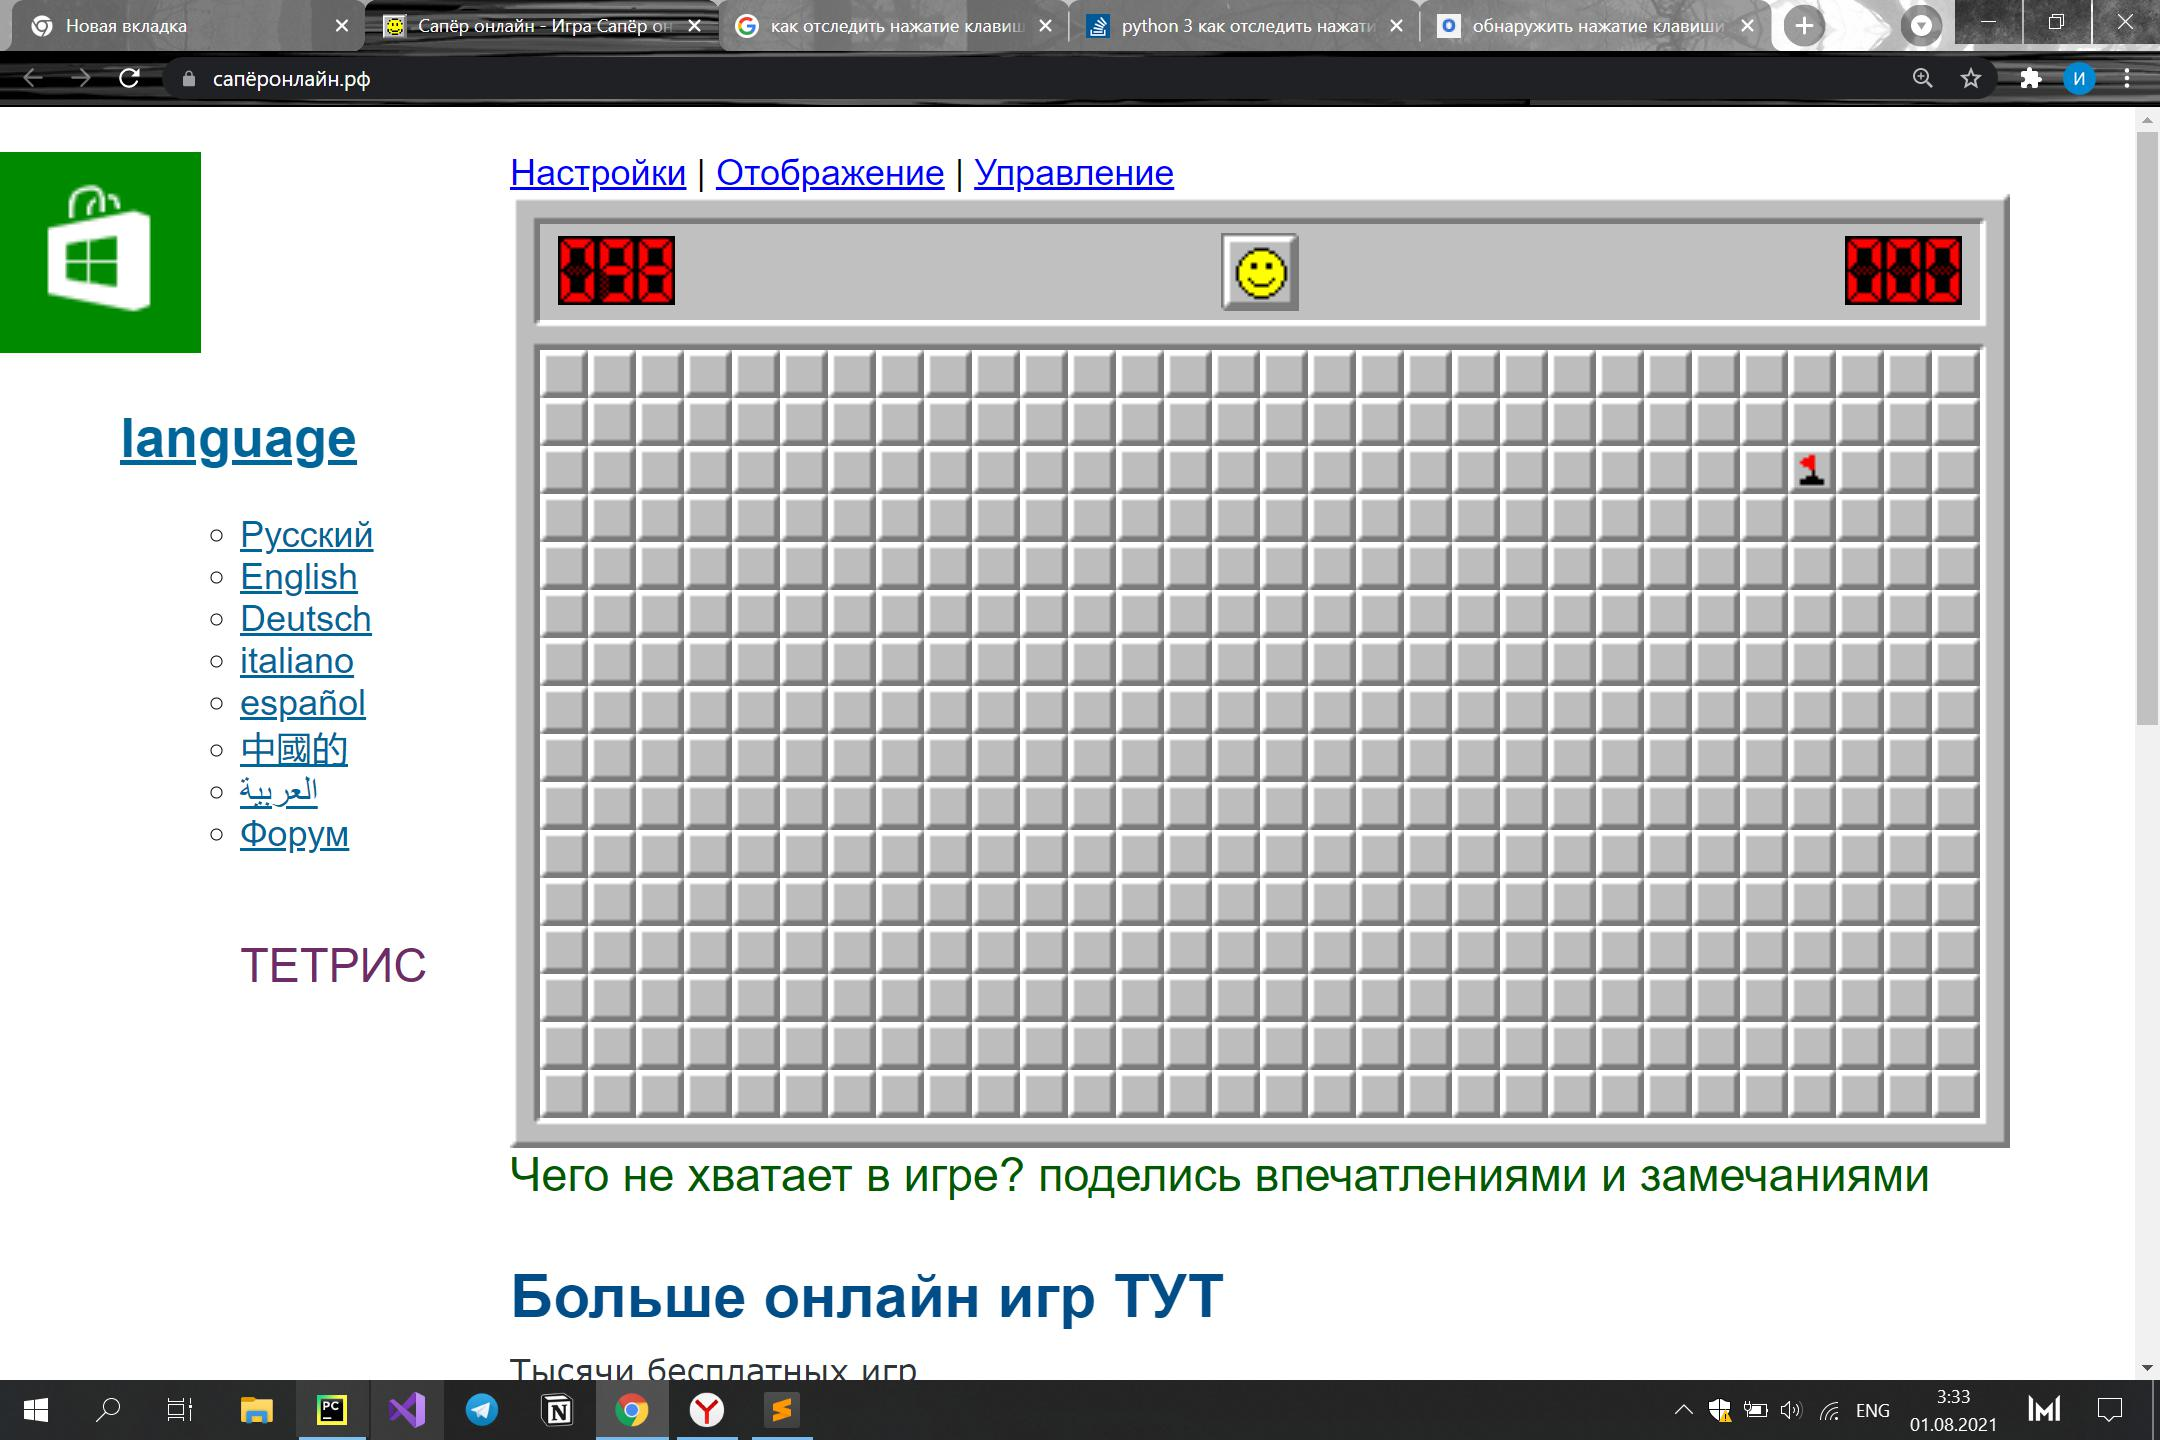
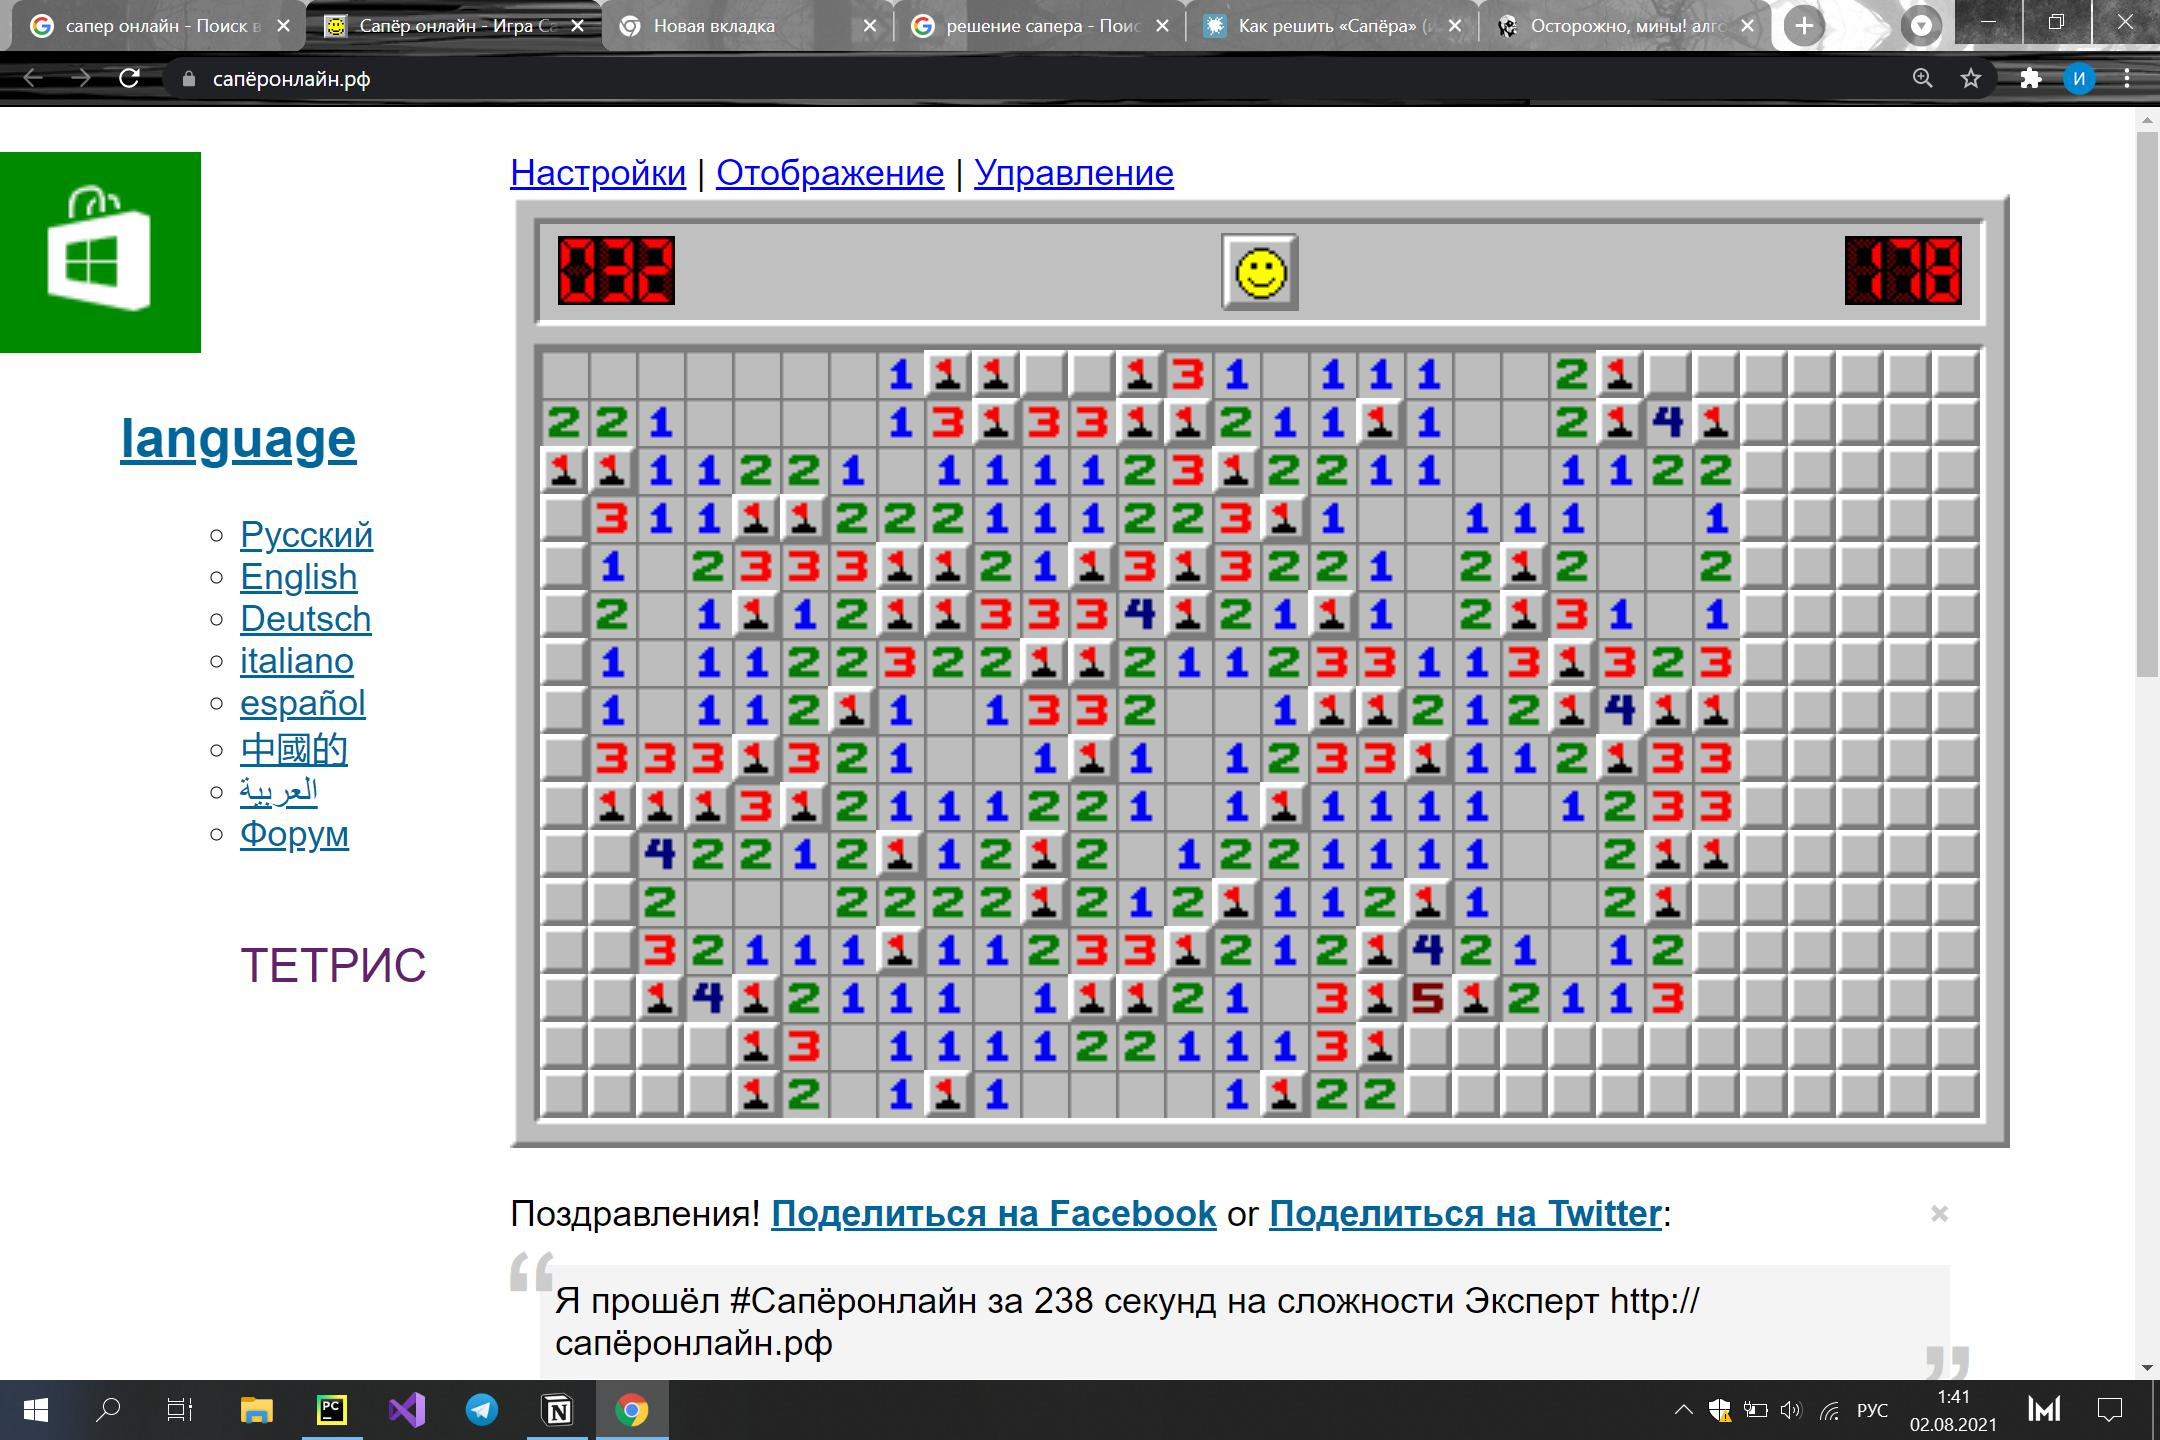
+fix

diff --git a/Sapper.py b/Sapper.py
@@ -61,11 +61,11 @@ class Sapper:
 
     def checkFlag(self):
         countNumber = ['1', '2', '3', '4', '5', '6']
-        for i in range(self.n):
-            for j in range(self.m):
+        for i in range(0,self.n):
+            for j in range(0,self.m):
                 for number in countNumber:
                     countLockCell = 0
-                    if self.table[i][j].value == number:  # TODO не проходит условие
+                    if self.table[i][j].value == number:  # TODO баг с повтором первых строк
                         try:
                             if self.table[i - 1][j - 1].value == '0' or \
                                     self.table[i - 1][j - 1].value == 'newX' or \
@@ -119,52 +119,60 @@ class Sapper:
                     if countLockCell == int(number):  # and countLockCell
                         try:
                             if self.table[i - 1][j - 1].value == '0':
-                                self.table[i - 1][j - 1].value = 'newX'
+                                self.table[i - 1][j - 1].value = 'X'
+                                UserActions.clickRight(self.table[i - 1][j - 1].x1, self.table[i - 1][j - 1].y1)
                         except:
                             print()
                         try:
                             if self.table[i - 1][j].value == '0':
-                                self.table[i - 1][j].value = 'newX'
+                                self.table[i - 1][j].value = 'X'
+                                UserActions.clickRight(self.table[i - 1][j].x1, self.table[i - 1][j].y1)
                         except:
                             print()
                         try:
                             if self.table[i - 1][j + 1].value == '0':
-                                self.table[i - 1][j + 1].value = 'newX'
+                                self.table[i - 1][j + 1].value = 'X'
+                                UserActions.clickRight(self.table[i - 1][j + 1].x1, self.table[i - 1][j + 1].y1)
                         except:
                             print()
                         try:
                             if self.table[i + 1][j - 1].value == '0':
-                                self.table[i + 1][j - 1].value = 'newX'
+                                self.table[i + 1][j - 1].value = 'X'
+                                UserActions.clickRight(self.table[i + 1][j - 1].x1, self.table[i + 1][j - 1].y1)
                         except:
                             print()
                         try:
                             if self.table[i + 1][j].value == '0':
-                                self.table[i + 1][j].value = 'newX'
+                                self.table[i + 1][j].value = 'X'
+                                UserActions.clickRight(self.table[i + 1][j].x1, self.table[i + 1][j].y1)
                         except:
                             print()
                         try:
                             if self.table[i + 1][j + 1].value == '0':
-                                self.table[i + 1][j + 1].value = 'newX'
+                                self.table[i + 1][j + 1].value = 'X'
+                                UserActions.clickRight(self.table[i + 1][j + 1].x1, self.table[i + 1][j + 1].y1)
                         except:
                             print()
                         try:
                             if self.table[i][j - 1].value == '0':
-                                self.table[i][j - 1].value = 'newX'
+                                self.table[i][j - 1].value = 'X'
+                                UserActions.clickRight(self.table[i][j - 1].x1, self.table[i][j - 1].y1)
                         except:
                             print()
                         try:
                             if self.table[i][j + 1].value == '0':
-                                self.table[i][j + 1].value = 'newX'
+                                self.table[i][j + 1].value = 'X'
+                                UserActions.clickRight(self.table[i][j + 1].x1, self.table[i][j + 1].y1)
                         except:
                             print()
 
     def putFlag(self):
         self.checkFlag()
-        for i in range(self.n):
-            for j in range(self.m):
-                if self.table[i][j].value == 'newX':
-                    self.table[i][j].value = 'X'
-                    UserActions.clickRight(self.table[i][j].x1, self.table[i][j].y1)
+        # for i in range(self.n):
+        #     for j in range(self.m):
+        #         if self.table[i][j].value == 'newX':
+        #             self.table[i][j].value = 'X'
+        #             UserActions.clickRight(self.table[i][j].x1, self.table[i][j].y1)
         self.openCell()
 
     def openCell(self):

diff --git a/UserActions.py b/UserActions.py
@@ -14,18 +14,17 @@ class UserActions(object):
 
     @staticmethod
     def clickLeft(x, y):
-        pyautogui.moveTo(x+15, y+15)  # Передвинули мышку в левый нижний угол (в район кнопки Start)
+        pyautogui.moveTo(x + 15, y + 15, 0, _pause=False)  # Передвинули мышку в левый нижний угол (в район кнопки Start)
         pyautogui.click()  # Сэмулировали нажатие левой кнопки
         pyautogui.click()  # Сэмулировали нажатие левой кнопки
 
     @staticmethod
     def clickRight(x, y):
-        pyautogui.moveTo(x+15, y+15)  # Передвинули мышку в левый нижний угол (в район кнопки Start)
-        pyautogui.rightClick() # Сэмулировали нажатие левой кнопки
+        pyautogui.moveTo(x + 15, y + 15, 0, _pause=False)  # Передвинули мышку в левый нижний угол (в район кнопки Start)
+        pyautogui.rightClick()  # Сэмулировали нажатие левой кнопки
         # pyautogui.click()  # Сэмулировали нажатие левой кнопки
 
     @staticmethod
     def clickMiddle(x, y):
-        pyautogui.moveTo(x+15, y+15)  # Передвинули мышку в левый нижний угол (в район кнопки Start)
-        pyautogui.click(button='middle') # Сэмулировали нажатие левой кнопки
-
+        pyautogui.moveTo(x + 15, y + 15, 0, _pause=False)  # Передвинули мышку в левый нижний угол (в район кнопки Start)
+        pyautogui.click(button='middle')  # Сэмулировали нажатие левой кнопки
